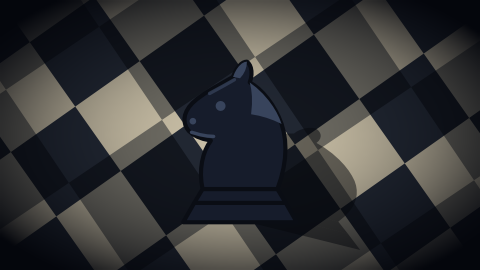
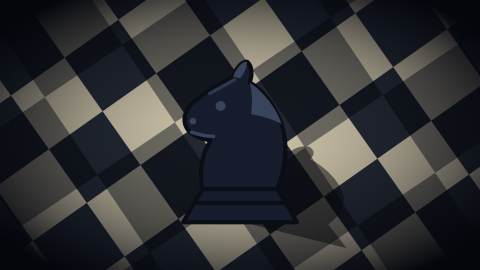
checkerboard: the camera runs on its own too
The zoom was a variable the driver moved. It is now a looping scale on
the group, over 29 seconds, a period none of the turns divides. The
driver is left with the second board's opacity, so the show plays the
same with --no-driver.

The shadow lies on the boards and has to breathe with them, so it
carries a second timeline with the same keys. The README says plainly
that the two have to stay identical, and why there is no better way to
say it: a show cannot name a value for several layers to read, and the
shadow cannot live inside the boards' group, since a group scales
positions too and it would slide off the piece (cuelight #74).

The zoom's own loop was checked like the others: frames either side of
it differ less than an ordinary pair.

diff --git a/checkerboard/README.md b/checkerboard/README.md
@@ -11,9 +11,10 @@ how close the camera is.
 | Turning | each copy carries a looping `rotation` timeline, one going 0 to 90 degrees over 23 seconds and the other 90 to 0 over 37. A quarter turn maps a checkerboard onto itself, so those loops have no seam, and the two periods do not divide each other, so the pair never quite repeats |
 | Breathing | the near copy also loops its own `scale` between 1 and 1.35, which multiplies with everything above it |
 | The second board | drawn over the first with `"blend": "multiply"` and a bound opacity, so it darkens the light squares and leaves the dark ones alone. The two boards cut triangles out of each other as they turn |
-| The zoom | the group around both has its `scale` bound to a `zoom` variable with a transition, so the host moves the camera while the timelines keep turning underneath. A group's transform reaches its whole subtree, so one binding scales two boards that are separately rotating and scaling |
+| The zoom | the group around both loops its own `scale` between 0.85 and 1.45 over 29 seconds, a period none of the turns divides, so the camera never arrives anywhere twice the same way. A group's transform reaches its whole subtree, so that one timeline scales two boards that are separately rotating and scaling |
+| Two copies of the zoom | the shadow lies on the boards, so it has to breathe with them, and it carries a second timeline with the same keys. **They have to stay identical.** A show cannot name a value and have several layers read it, and the shadow cannot simply live inside the boards' group, since a group scales positions too and the shadow would slide off the piece. They keep together only because both start at load (cuelight #74) |
 | The piece | a `vector` in front, still, apart from a slow float |
-| Its shadow | the same outline again as one flat dark shape, squashed with `scale_y` and turned, lying on the board rather than under the piece. Its `scale` is bound to the same `zoom`, so it grows and shrinks with the squares it falls across while the piece itself never changes size |
+| Its shadow | the same outline again as one flat dark shape, squashed with `scale_y` and turned, lying on the board rather than under the piece. It grows and shrinks with the squares it falls across while the piece itself never changes size |
 | The corners | a stretched image, since a show has no gradients: the alternative is a stack of translucent shapes, and one small picture is cheaper and softer |
 
 It needs cuelight `main` with rotation, uneven scale, inherited group
@@ -26,10 +27,10 @@ cd ../../cuelight
 cargo run -p cuelight-player -- ../cuelight-examples/checkerboard
 ```
 
-`test-driver.json` is picked up automatically and moves the camera every
-few seconds: in close, out past the start, and back. Everything else runs
-on its own, so the show keeps turning with `--no-driver` too. You can
-also drive it from the player's prompt: `zoom=1.6`, `depth=0.8`.
+`test-driver.json` is picked up automatically and only fades the second
+board in and out. Everything else, the turning, the breathing and the
+camera, runs on its own, so the show plays exactly the same with
+`--no-driver`. You can also set it from the player's prompt: `depth=0.8`.
 
 ## Assets
 
@@ -56,3 +57,8 @@ Everything under `assets/` is committed and free to redistribute.
   seconds because a looping timeline restarts from its first key. Saying
   "90 degrees every 23 seconds" would be plainer, and a host could then
   change the speed.
+- A value the show can name and animate, that several layers read the way
+  they read a variable (cuelight #74). The zoom is one value with two
+  readers, and it has to be written twice because there is no way to say
+  so. Nothing in the document records that the two sets of keys are meant
+  to agree; they do because both start at load.
